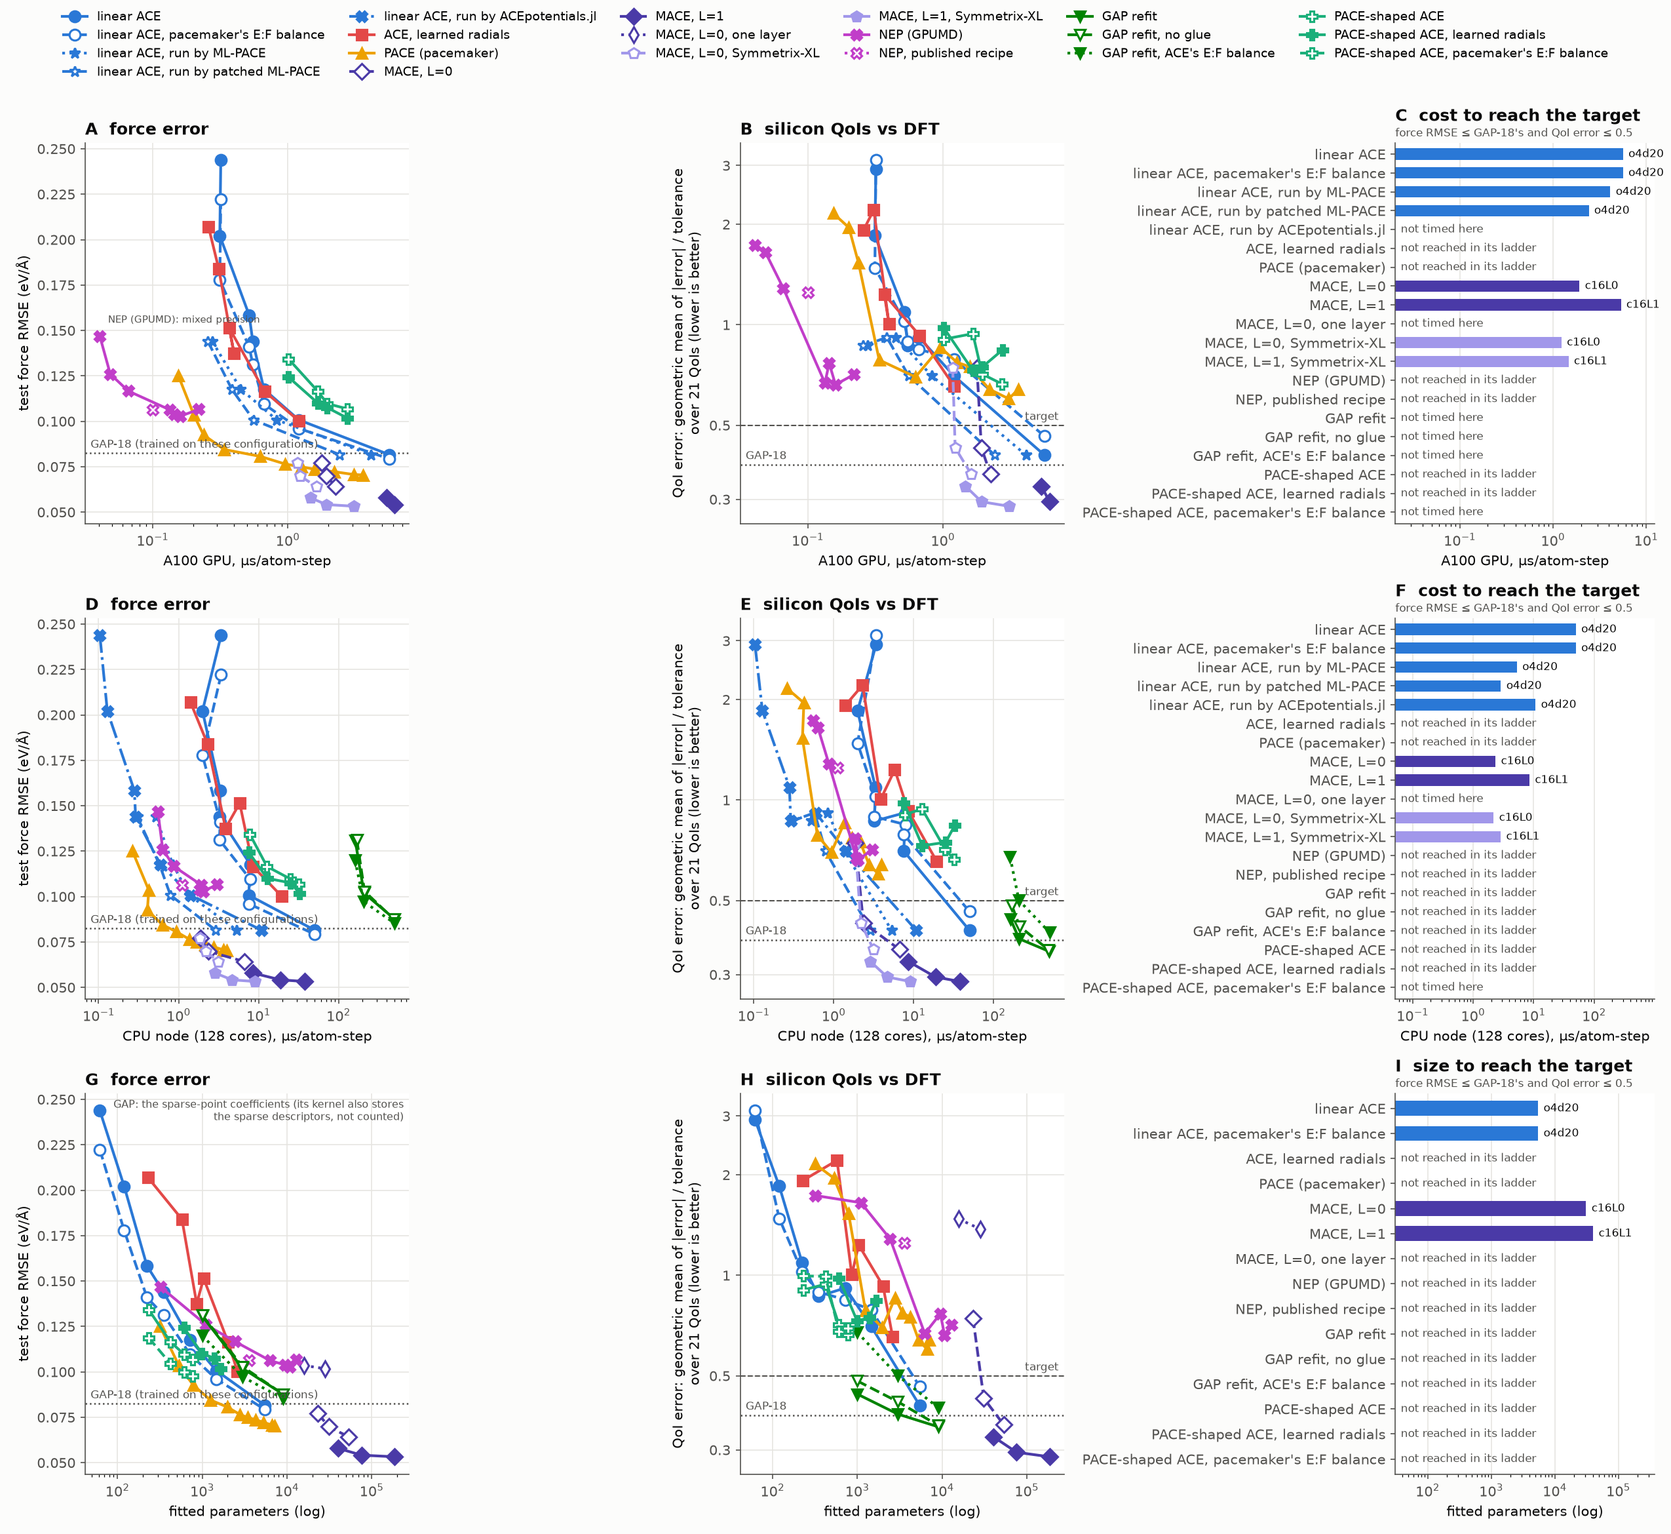
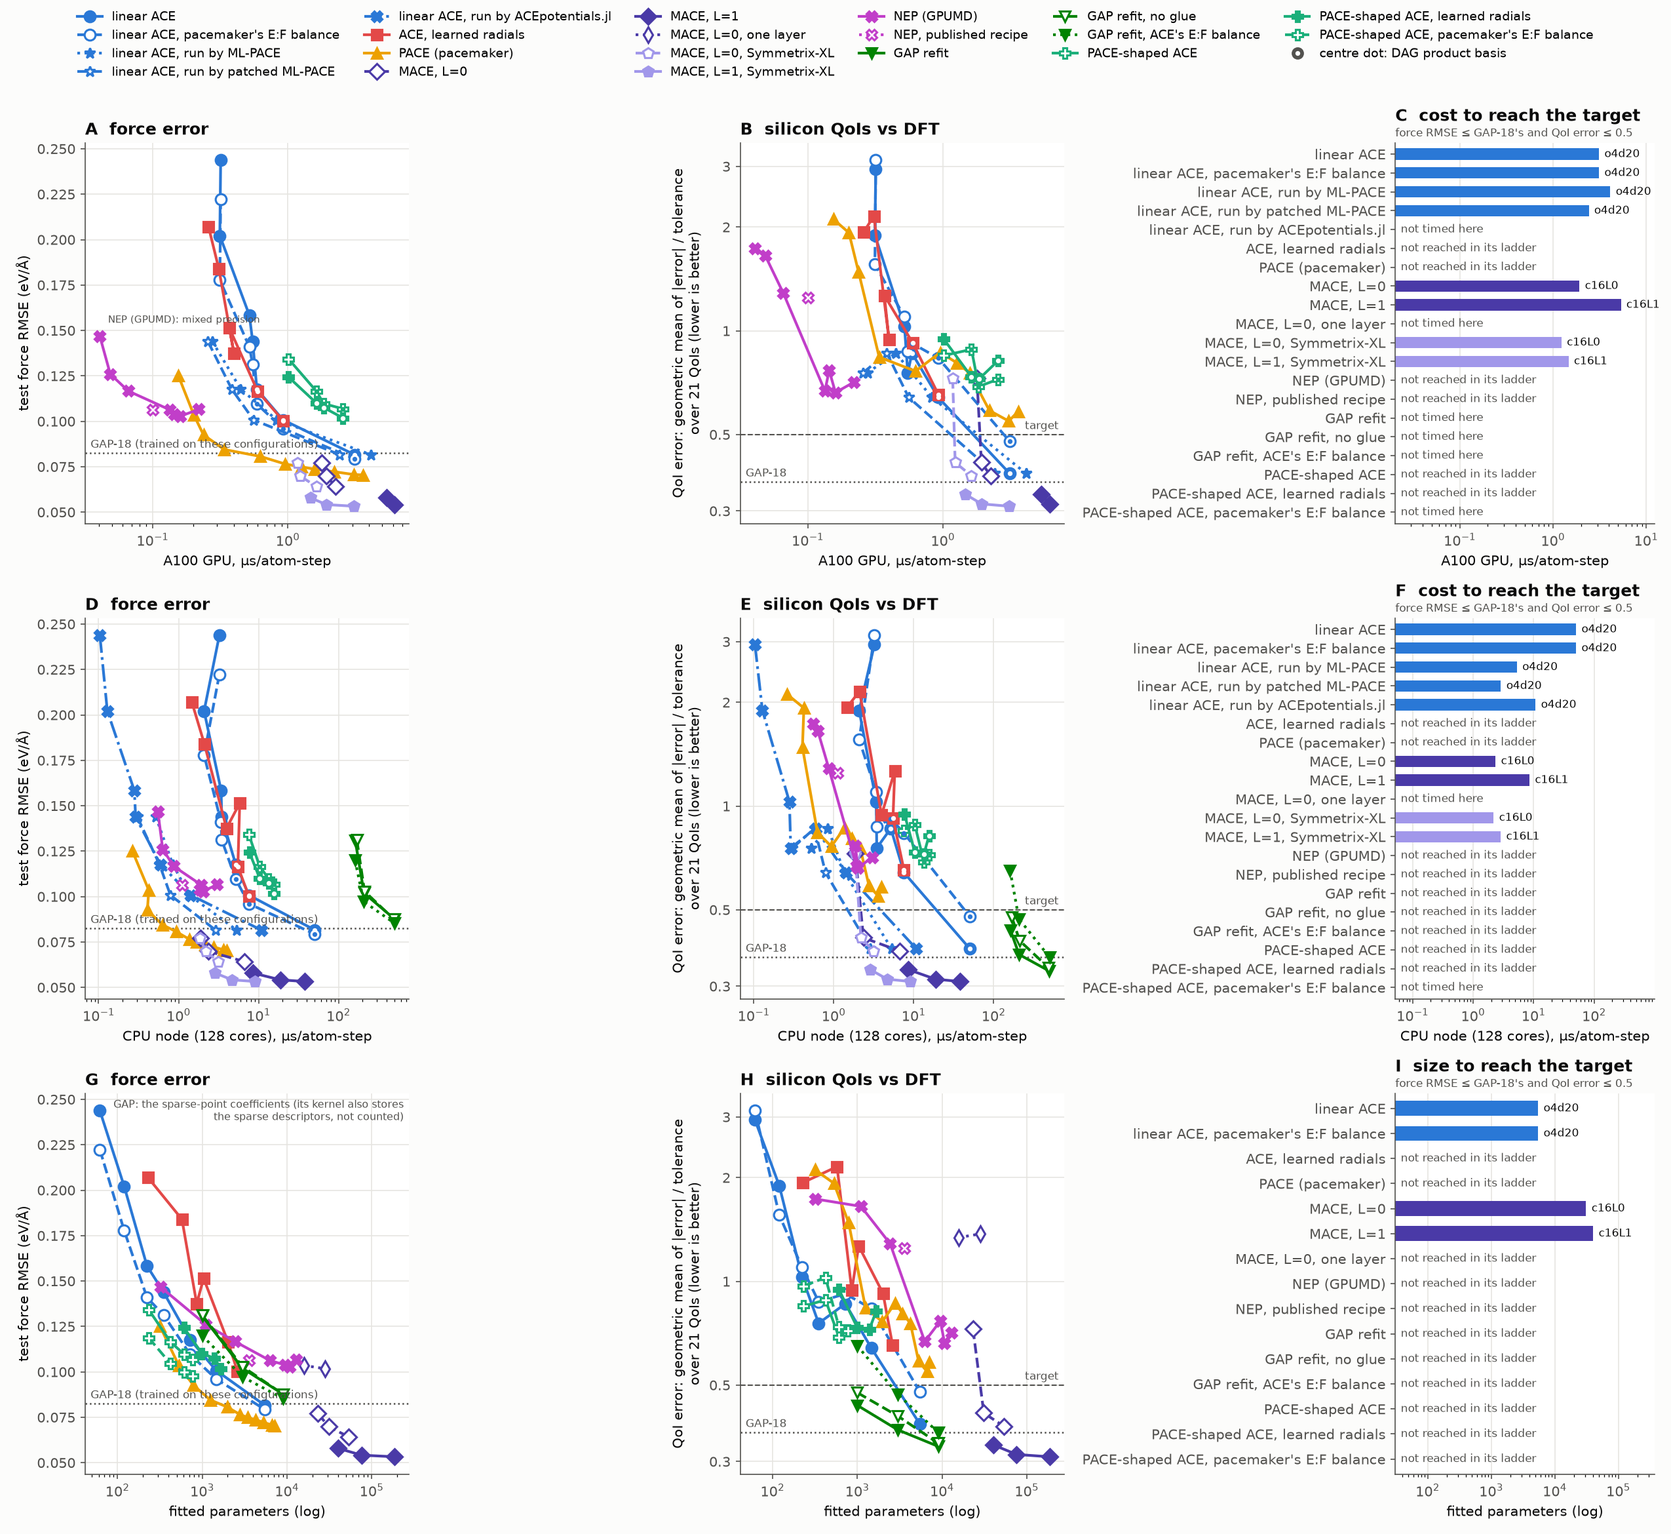
bench(accuracy-cost): ace-jax points in the product-basis form aa_dag="auto" picks, DAG points dotted
The cost figure's ace-jax rows now come from the paired chain/DAG timings (dag_auto.py, make_cost.py --source):
linear ACE and learned radials switch to the DAG at o4d14, PACE-shaped ACE at md12, on the CPU node and the
A100. New on the A100: linear ACE o4d20 3.12 us/atom-step (was 5.65 in the chain form), faster than stock
ML-PACE (4.13); on the CPU the learned-radial and PACE-shaped ladders gain 1.2-2.6x. A centre dot marks the
DAG points (white on filled markers, the family colour on open ones; looked up by cost name so refits that
share a timing get it too), with a legend entry and the footnote. Docs: the results page's DAG table,
Performance page, CHANGELOG, CLAUDE.md.

diff --git a/bench/si_qoi/plot_cost.py b/bench/si_qoi/plot_cost.py
@@ -212,12 +212,30 @@ def flag(ax, data, codes, key):
                         textcoords="offset points", ha="left" if left else "right", fontsize=7, color=MUTED)
 
 
+DAG_LABEL = "centre dot: DAG product basis"
+
+
+def dag_dots(ax, data, codes, key):
+    """A centre dot on the ace-jax points whose timing used the DAG product basis (make_cost's codes note
+    "dag:<mode>"): white on filled markers, the family's colour on open ones.  Returns whether any was drawn."""
+    drawn = False
+    for fam, pts in data.items():
+        _, col, _, _, filled, _ = FAM[fam]
+        p = [q for q in pts if q["x"] is not None and q[key] is not None
+             and " dag:" in codes.get(cost_name(fam, q["size"]), "")]   # by cost name: refits (COST_AS) share the timing
+        if p:
+            ax.plot([q["x"] for q in p], [q[key] for q in p], ls="none", marker="o", ms=3.5,
+                    color="white" if filled else col, mec="none", zorder=4)
+            drawn = True
+    return drawn
+
+
 def draw_row(axes, data, ref, xlabel, codes, letters, what):
     """One row of the figure: force error, QoI error and the cheapest model reaching the target, all against
     one x (a cost, or the fitted-parameter count)."""
     a, b, c = letters
     ax = axes[0]; style(ax, xlabel, "test force RMSE (eV/Å)")
-    series(ax, data, "rmse_F")
+    series(ax, data, "rmse_F"); dag_dots(ax, data, codes, "rmse_F")
     if "A100" in xlabel or "GPU" in xlabel:                   # on the CPU every ace-jax row is standalone by design
         flag(ax, data, codes, "rmse_F")
     ax.axhline(ref["rmse_F"], color=MUTED, ls=":", lw=1.2)
@@ -226,7 +244,7 @@ def draw_row(axes, data, ref, xlabel, codes, letters, what):
     ax.set_title(f"{a}  force error", loc="left", color=INK, fontweight="bold")
 
     ax = axes[1]; style(ax, xlabel, f"QoI error: geometric mean of |error| / tolerance\nover {len(TOLERANCES)} QoIs (lower is better)")
-    series(ax, data, "qoi"); ax.set_yscale("log")             # (standalone points flagged in the force panel only)
+    series(ax, data, "qoi"); dag_dots(ax, data, codes, "qoi"); ax.set_yscale("log")             # (standalone points flagged in the force panel only)
     ax.axhline(ref["qoi"], color=MUTED, ls=":", lw=1.2)
     ax.annotate("GAP-18", (ax.get_xlim()[0], ref["qoi"]), xytext=(4, 4), textcoords="offset points", fontsize=8, color=MUTED)
     ax.axhline(TARGET_QOI, color=MUTED, ls="--", lw=1)
@@ -306,13 +324,19 @@ def main():
                              "not counted)", (1, 1), xycoords="axes fraction", xytext=(-4, -4),
                              textcoords="offset points", ha="right", va="top", fontsize=7.5, color=MUTED)
     order = [FAM[f][0] for f in FAM if FAM[f][0] in handles]
+    if any(" dag:" in v for _, _, codes, _ in rows for v in codes.values()):
+        from matplotlib.lines import Line2D
+        handles[DAG_LABEL] = (Line2D([], [], ls="none", marker="o", ms=8, color=MUTED),
+                              Line2D([], [], ls="none", marker="o", ms=3.5, color="white", mec="none"))
+        order.append(DAG_LABEL)
     ncol = min(6, -(-len(order) // 3))                    # at most 6 columns fit the width; more rows instead
     legend_rows = -(-len(order) // ncol)
+    from matplotlib.legend_handler import HandlerTuple
     fig.legend([handles[l] for l in order], order, loc="upper center", ncol=ncol, frameon=False,
-               fontsize=9, bbox_to_anchor=(0.5, 1.0))
+               fontsize=9, bbox_to_anchor=(0.5, 1.0), handler_map={tuple: HandlerTuple(ndivide=1)})
     cpu_note = ("CPU row: a 128-core EPYC 7742 node, all cores, ranks bound to cores; each model's fastest layout\n"
                 "(128x1 or 64x2 MPI ranks x threads; GAP: 32 ranks).\n"
-                "ace-jax runs in LAMMPS (lammps-jax CPU backend; ACE o4d16 and o4d20 with the recursive (DAG) product basis, aa_dag='greedy'); MACE runs in LAMMPS via Symmetrix and, separately, Symmetrix-XL.\n"
+                "ace-jax runs in LAMMPS (lammps-jax; aa_dag='auto': the DAG product basis, centre dot, from 4,000 chain-form multiplies per site; the chain form below); MACE runs in LAMMPS via Symmetrix and, separately, Symmetrix-XL.\n"
                 "Linear ACE run by ML-PACE: the o4 fits exported exactly to .yace with tabulated radials (ML-PACE with the tabulated-radial patch, ICAMS/lammps-user-pace#31; pace and pace/kk).  "
                 "GPU ML-PACE: LAMMPS develop ec02ed0 (with the 2026-08 pace/kk GPU rewrite).\n"
                 "Patched ML-PACE: the recursive-evaluator speed-ups proposed upstream (ICAMS/lammps-user-pace#31) on the CPU; "

diff --git a/docs/dev/accuracy-cost-results.md b/docs/dev/accuracy-cost-results.md
@@ -25,7 +25,7 @@ Cheapest model reaching the target, µs/atom-step, float64, LAMMPS:
 
 | model | parameters | force RMSE (eV/Å) | QoI error | A100 | CPU node |
 |---|---|---|---|---|---|
-| linear ACE o4d20, ace-jax (lammps-jax) | 5,476 | 0.0816 | 0.41 | 5.65 | 50.0 |
+| linear ACE o4d20, ace-jax (lammps-jax) | 5,476 | 0.0816 | 0.41 | 3.12 | 50.5 |
 | linear ACE o4d20, ML-PACE (tabulated radials) | 5,476 | 0.0816 | 0.41 | 4.13 | 5.31 |
 | linear ACE o4d20, patched ML-PACE (proposed upstream) | 5,476 | 0.0816 | 0.41 | 2.42 | 2.89 |
 | linear ACE o4d20, ACEpotentials.jl (trim library) | 5,476 | 0.0816 | 0.41 | – | 10.8 |
@@ -51,9 +51,9 @@ parameters than linear ACE (f800: 761 parameters, 0.081 eV/Å) but not the QoI t
 ## Observations
 
 - **ML-PACE runs ace-jax's linear ACE fastest on the CPU.** Exported exactly (`write_yace`, tabulated radials;
-  `ml-pace-tabulated-radials.md`), o4d20 runs at 5.31 µs/atom-step on 128 ranks against 50.0 through the
-  lammps-jax CPU backend with the DAG product basis, and 3.98 for PACE f3200. On the A100 the gap is smaller
-  (4.13 vs 5.65).
+  `ml-pace-tabulated-radials.md`), o4d20 runs at 5.31 µs/atom-step on 128 ranks against 50.5 through the
+  lammps-jax CPU backend with the DAG product basis, and 3.98 for PACE f3200. On the A100, ace-jax with the DAG
+  is faster than stock ML-PACE (3.12 vs 4.13) and behind patched ML-PACE (2.42).
 - **Patched ML-PACE** (ICAMS/lammps-user-pace#31: on the CPU the recursive-evaluator speed-ups, no unused
   dB_flatten clear, register-carried DAG passes, the force pass summed over n first; on the GPU the pace/kk
   prototype kernels of `pace_ref/fast`, flat-offset ComputeRho and a segmented ComputeWeights, `PACE_KK_RHOW=3`)
@@ -98,8 +98,26 @@ parameters than linear ACE (f800: 761 parameters, 0.081 eV/Å) but not the QoI t
   weights, so the weighting does not explain the plateau. No paper we found distils MACE into NEP with
   reported force errors; the favourable reports are on large, narrow MD datasets.
 - **Symmetrix-XL** is 1.1-3.6x faster than Symmetrix for the same MACE models, most at L = 1 on the GPU.
-- **The DAG product basis** (`aa_dag="greedy"`, #90) gives ace-jax's fastest CPU rows at o4d16 and o4d20; it
-  also cuts the compiled temporary memory (o4d20: 3.9 GB to 0.64 GB on one core).
+- **The DAG product basis** (`eval/aa_dag.py`) is never slower than the chain form and from ~6,000 chain-form
+  multiplies per site clearly faster, so `aa_dag="auto"` (the default of `ACECalculator` and `export_lammps`)
+  takes it from `AUTO_MIN_CHAIN_MUL` = 4,000. Every ace-jax model of the figure, timed in both forms one after
+  the other on the same node (µs/atom-step, chain / DAG; all parity-gated):
+
+  | model (chain multiplies) | CPU node | speed-up | A100 | speed-up |
+  |---|---|---|---|---|
+  | ace o3d8-o3d12 (113-1,013) | 2.09-3.41 / 2.05-3.35 | 0.99-1.02x | 0.31-0.52 / 0.31-0.51 | 0.99-1.01x |
+  | ace o4d12 (2,150) | 3.46 / 3.36 | 1.03x | 0.550 / 0.532 | 1.03x |
+  | PACE-shaped md10 (2,087) | 7.55 / 7.13 | 1.06x | 1.013 / 1.008 | 1.01x |
+  | PACE-shaped md12 (6,207) | 12.8 / 10.3 | 1.24x | 1.666 / 1.628 | 1.02x |
+  | ace o4d14 (7,095) | 8.00 / 5.19 | 1.54x | 0.664 / 0.591 | 1.12x |
+  | PACE-shaped md18 (19,141) | 32.1 / 15.5 | 2.07x | 2.744 / 2.552 | 1.08x |
+  | ace o4d16 (21,934) | 19.3 / 7.57 | 2.55x | 1.207 / 0.923 | 1.31x |
+  | ace o4d20 (175,021) | 136 / 50.5 | 2.70x | 5.73 / 3.12 | 1.84x |
+
+  Learned radials match linear ACE at each (order, degree), and PACE-shaped ACE with learned radials matches
+  the fixed-radial rows. The figure plots each ace-jax model in the form `auto` picks (centre dot: the DAG), so
+  the switch falls at o4d14 for linear ACE and learned radials and at md12 for PACE-shaped ACE. The DAG also cuts
+  the compiled temporary memory (o4d20: 3.9 GB to 0.64 GB on one core).
 - **Learned radials** do not reach the target in their ladder (to o4d16): best QoI error 0.66, against 0.41
   for linear ACE at o4d20.
 
@@ -110,8 +128,12 @@ parameters than linear ACE (f800: 761 parameters, 0.081 eV/Å) but not the QoI t
 - Every cost is a LAMMPS row that passed its parity gate (64 atoms against the model's reference evaluation)
   in the same job; `make_cost.py` takes each model's fastest such row, float64 only. One-layer MACE and, on
   the GPU, Symmetrix MACE c64L1 have float32 timings only and are left out of the cost rows.
-- ace-jax: lammps-jax bundles (`export_lammps`; CPU: `platform="cpu"`, `neighbour_capacity(procs=)`, o4d16 and
-  o4d20 with `aa_dag="greedy"`). ML-PACE on the GPU: LAMMPS develop ec02ed0 (Stan Moore's 2026-08 `pace/kk`
+- ace-jax: lammps-jax bundles (`export_lammps`; CPU: `platform="cpu"`, `neighbour_capacity(procs=)`), each model
+  timed in the chain form and with `aa_dag="greedy"` on the same node (`envs/sulis-{cpu,gpu}-dagpair.sbatch`,
+  ace-jax 6debdc9); `accuracy_cost/dag_auto.py` keeps, per model, the form `aa_dag="auto"` picks
+  (`results/dag_chain_multiplies.json`, from `dag_chain_multiplies.py`) in `sulis-{cpu-128x1,gpu}-acejax-auto.jsonl`,
+  and `make_cost.py --source` takes the ace-jax rows from those files alone.
+  ML-PACE on the GPU: LAMMPS develop ec02ed0 (Stan Moore's 2026-08 `pace/kk`
   rewrite; about 2x faster than the 10Sep2025 patch release). Linear ACE run by ML-PACE: that tree with
   `LOCAL_ML-PACE` = v.2025.12.4.p1 + the tabulated-radial patch (`bench/scaling/envs/sulis-pacetab.sh`).
   Stock rows: `sulis-cpu-128x1-ace_tab5.jsonl` / `sulis-gpu-ace_tab5.jsonl`, timed in the same jobs as the patched
@@ -143,13 +165,14 @@ Cost files from the timing rows (float64 only), then the figures:
 
 ```bash
 R=bench/accuracy_cost/results/sulis; RR=bench/si_qoi/results
-python bench/si_qoi/make_cost.py --dtype float64 --out $RR/cost_sulis_cpu.json \
+(cd bench && python -m accuracy_cost.dag_auto)
+python bench/si_qoi/make_cost.py --dtype float64 --source acejax-ace=sulis-cpu-128x1-acejax-auto --out $RR/cost_sulis_cpu.json \
     $(ls $R/sulis-cpu*.jsonl | grep -v -e smoke -e ace_yace -e pacetab-check -e "ace_tab\.jsonl" -e ace_tab2 \
-      -e ace_tab3)
-python bench/si_qoi/make_cost.py --dtype float64 --out $RR/cost_sulis_gpu.json \
+      -e ace_tab3 -e dagpair)
+python bench/si_qoi/make_cost.py --dtype float64 --source acejax-ace=sulis-gpu-acejax-auto --out $RR/cost_sulis_gpu.json \
     bench/accuracy_cost/results/sulis-gpu.jsonl bench/accuracy_cost/results/sulis-gpu-ace-splined.jsonl \
     $R/sulis-gpu-ace-splined-v2.jsonl $R/sulis-gpu-v2.jsonl $R/sulis-gpu-mace_xl.jsonl \
-    $R/sulis-gpu-ace_tab5.jsonl $R/sulis-gpu-ace_tabfork.jsonl $R/sulis-gpu-pace-dev.jsonl $R/sulis-gpu-nep.jsonl --allow nep-gpumd:mixed
+    $R/sulis-gpu-ace_tab5.jsonl $R/sulis-gpu-ace_tabfork.jsonl $R/sulis-gpu-pace-dev.jsonl $R/sulis-gpu-nep.jsonl $R/sulis-gpu-acejax-auto.jsonl --allow nep-gpumd:mixed
 ROWS=(--row "A100 GPU, µs/atom-step|$RR/cost_sulis_gpu.json|$RR/cost_sulis_gpu.codes.json"
       --row "CPU node (128 cores), µs/atom-step|$RR/cost_sulis_cpu.json|$RR/cost_sulis_cpu.codes.json")
 python bench/si_qoi/plot_cost.py "${ROWS[@]}"

diff --git a/CLAUDE.md b/CLAUDE.md
@@ -123,6 +123,7 @@ uv run ruff check                     # lint; `uv run pre-commit run --all-files
     - **Radial tables in r** (`splinify.radial_table`, opt-in): `radial_table=` on `lean`, `ACECalculator` and `export_lammps` (None off, the default; True = `DEFAULT_RADIAL_TABLE` 4000 intervals; an int) tabulates the whole per-edge radial stage as one cubic B-spline per species pair on a uniform grid in r over [`DEFAULT_TABLE_R_MIN` 0.5 Å, max per-pair rcut]: ACE R_nl with transform and envelope plus the (folded) pair radial (`rtab_coefs`; `blk_rtab_coefs` for the compact blocked path), PACE g_k (`rtab_coefs`; core repulsion stays analytic, tabulating it gained nothing). A CPU speed-up (removes per-edge transcendentals). Samples and end curvature come from the model's own exact code (`radial_table_values`, autodiff), so no radial maths is duplicated; values are masked to exact zeros from each pair's cutoff on (ACE: `pair_envelope[..., 0]`, and building refuses an R_nl that does not vanish there; PACE: the bond rcut), so skin edges contribute nothing; below r_min the end cubic extrapolates (the ACE pair envelope is singular at r -> 0). An approximation: at 4000 intervals energies ~1e-12 relative, forces <= 1.5e-8 of max|F|, virial <= 4.7e-7 of max|V| on the fixtures (`tests/test_radial_table.py`). `radial()`, `pair_radial()`, `_blocked_radial()` and PACE `edge_basis_factors()` are the single entry points that read it. Applied last, by `model.with_radial_table` (the one helper `lean`, the calculator and the exporter call; wrappers refuse); `calc.radial_table` / `last_timing["radial_table"]` and the bundle's `ace_jax.radial_table` report it. Cached in the `to_spline` LRU (`_memo`) on `radial_table_key()` (never the readout), so readout-only swaps reuse it.
     - **Wrapper models** with `.base` and `with_base(new_base)` (e.g. `FSModel(base, ...)`): `lean` returns `model.with_base(lean_keep_basis(model.base))`. `lean_keep_basis` applies only `to_spline` and `prune_columns`, never `fold_pair` or `block_dense`, so `site_basis`/`site_basis_dense`/`_readout` stay valid (B to roundoff, not always bitwise).
     - The spline radial goes through `radial.spline_eval_pairs`: under a trace it inlines `vmap(spline_eval)(x, coefs[zi, zj])` (XLA fuses it into a 4-row gather), and an eager call goes through a jitted copy, because run eagerly that expression materialises an (E, ncoef, F) per-edge table, tens of GB on a fine `to_spline` grid. Don't wrap the traced call in its own jit: the nested jit changes the caller's fusion and moved the bit-exact `run_linear_pops_auto` golden. Explicit row gathers were 1-12% slower on an A100.
+  - **DAG product basis** (`eval/aa_dag.py`): each order-k AA monomial as one order-(k-1) node times one A entry (`with_aa_dag(model, "greedy"|"prefix")`, after `lean`; "prefix" bitwise, "greedy" to roundoff). `ACECalculator` and `export_lammps` default to `aa_dag="auto"`: `resolve_aa_dag` takes "greedy" from `AUTO_MIN_CHAIN_MUL` (4000) chain-form multiplies per site (`chain_multiplies(aa_specs)`), the chain form below, where the two tie (paired CPU / A100 timings in the constant's comment); `calc.aa_dag` and `ace_jax.aa_dag` record the form used.
   - `PACEModel.sbessel_form` is `"matmul"` (`pace_radial._sbessel_mm`) when `nradbase >= SBESSEL_MATMUL_MIN_K` (12), else the rotation recurrence. `load_yace` fixes it per model.
 - **GP fit:**
   - At fixed hyperparameters θ the model is Bayesian linear regression over `[B | k_θ(B, B_M)]`, with streamed sufficient statistics (`fit/stats`, `fit/objective`).

diff --git a/docs/user/benchmarks.md b/docs/user/benchmarks.md
@@ -38,7 +38,7 @@ At the target, in microseconds per atom-step:
 
 | model | A100 GPU | CPU node (128 cores) |
 |---|---|---|
-| linear ACE o4d20, ace-jax with lammps-jax | 5.65 | 50.0 |
+| linear ACE o4d20, ace-jax with lammps-jax | 3.12 | 50.5 |
 | linear ACE o4d20, ML-PACE | 4.13 | 5.31 |
 | linear ACE o4d20, ACEpotentials.jl | – | 10.8 |
 | MACE c16L0, Symmetrix | 1.93 | 2.36 |
@@ -60,6 +60,9 @@ On the CPU, the ACEpotentials.jl compiled library is the fastest code for
 linear ACE up to o4d14. It has the same speed as ML-PACE at o4d16. At
 o4d20 it is 2 times slower than ML-PACE.
 
+On the A100, ace-jax runs linear ACE o4d20 faster than ML-PACE (3.12
+against 4.13 µs/atom-step).
+
 ### How the cost was measured
 
 - **GPU.** One NVIDIA A100, 32,768 atoms.
@@ -67,9 +70,10 @@ o4d20 it is 2 times slower than ML-PACE.
   cores are used, with each MPI rank bound to a core. Each model uses its
   faster layout: 128 MPI ranks, or 64 MPI ranks with 2 threads. GAP uses 32
   MPI ranks.
-- **ace-jax** runs in LAMMPS with lammps-jax, on the GPU and on the CPU. On
-  the CPU, ACE o4d16 and o4d20 use the recursive product basis
-  (`aa_dag="greedy"`).
+- **ace-jax** runs in LAMMPS with lammps-jax, on the GPU and on the CPU.
+  ace-jax selects the form of the product basis for each model. Models with
+  4,000 or more chain-form multiplications per atom use the recursive (DAG)
+  form. The figure marks these points with a dot.
 - **Linear ACE, run by ML-PACE.** The same linear ACE fits are written as
   `.yace` files with tabulated radial functions
   ([Write an ACE model as a .yace file](howto/pace.md)). They run in

diff --git a/CHANGELOG.md b/CHANGELOG.md
@@ -4,6 +4,13 @@
 
 ### Changed
 
+- **The recursive (DAG) product basis is automatic.** `ACECalculator` and
+  `export_lammps` default to `aa_dag="auto"`. It uses the DAG for models with
+  4,000 or more chain-form multiplications per atom, and the chain form for
+  smaller models. Results below the threshold are unchanged. Larger models run
+  1.2-2.7x faster on a CPU node and 1.1-1.8x faster on an A100 (linear ACE
+  o4d20: 2.7x and 1.8x). `calc.aa_dag` and the bundle's `ace_jax.aa_dag` give
+  the form used. Set `aa_dag=None` for the chain form.
 - **`aj fit` fits linear ACE by default.** The default of `--m-per-species`
   is now 0 (it was 500). The hybrid ACE + GP model is experimental. To use
   it, give `--m-per-species` > 0. The GP options (`--kernel`, `--no-bump`,
